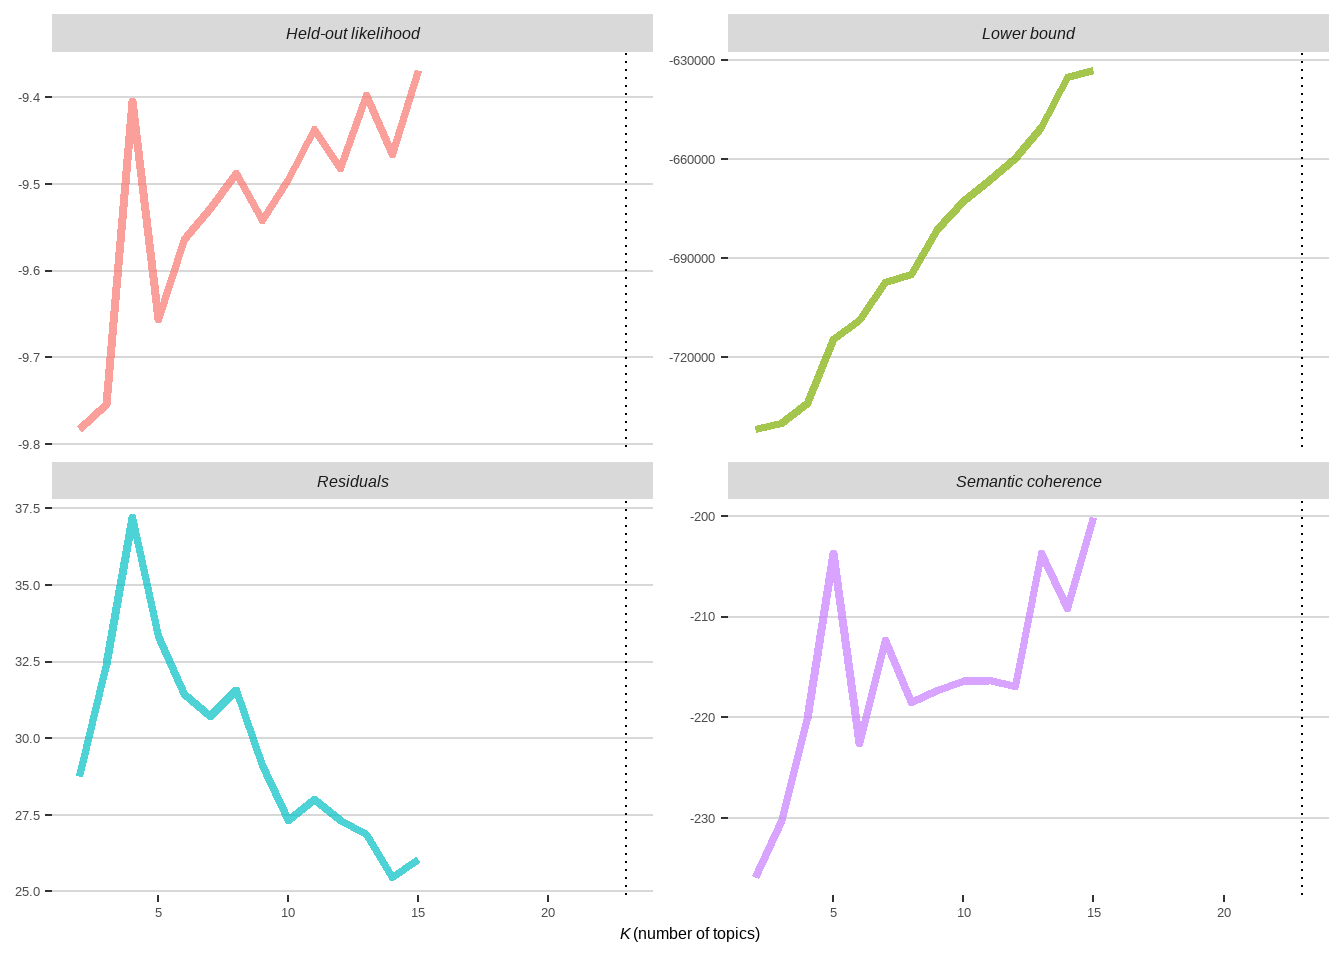
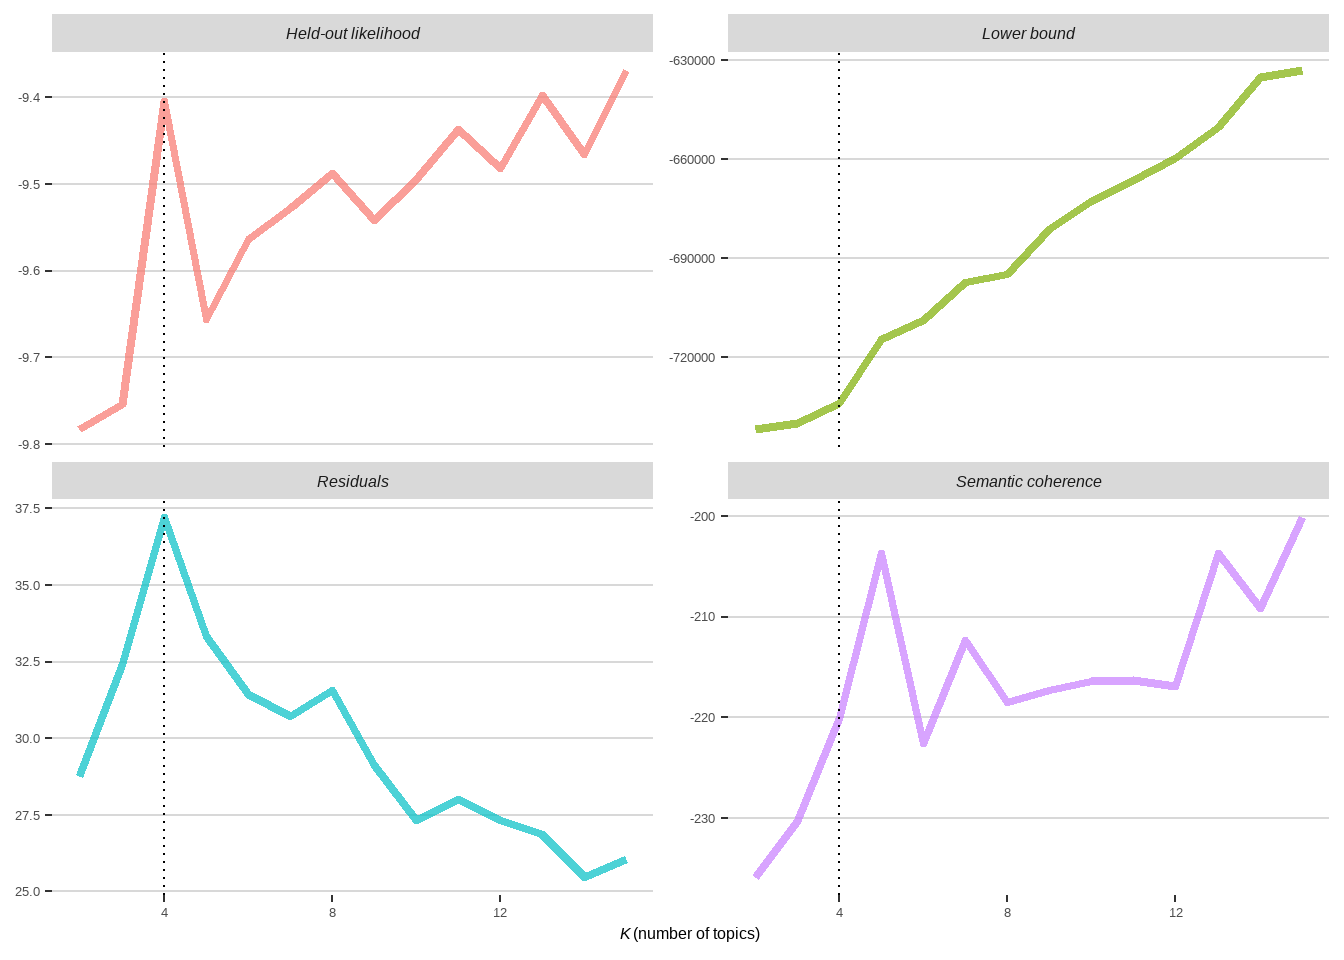
Mon, Feb 19, 2024 12:14:55 AM

diff --git a/docs/report.html b/docs/report.html
@@ -7,7 +7,7 @@
 <meta name="viewport" content="width=device-width, initial-scale=1.0, user-scalable=yes">
 
 <meta name="author" content="Xinzhuo HUANG">
-<meta name="dcterms.date" content="2024-02-18">
+<meta name="dcterms.date" content="2024-02-19">
 
 <title>Text Analysis with Chinese Court Decision Data</title>
 <style>
@@ -156,7 +156,7 @@ window.Quarto = {
       <div>
       <div class="quarto-title-meta-heading">Published</div>
       <div class="quarto-title-meta-contents">
-        <p class="date">February 18, 2024</p>
+        <p class="date">February 19, 2024</p>
       </div>
     </div>
     
@@ -245,7 +245,7 @@ body {text-align: justify}
 <div class="cell-output-display">
 <div data-pagedtable="false">
   <script data-pagedtable-source="" type="application/json">
-{"columns":[{"label":["full_text"],"name":[1],"type":["chr"],"align":["left"]}],"data":[{"1":"山东省沂源县人民法院\\n刑事判决书\\n（2016）鲁0323刑初30号\\n公诉机关沂源县人民检察院。\\n被告人高某，个体。因涉嫌犯寻衅滋事罪于2015年11月19日被刑事拘留，同年12月18日被逮捕。2016年1月13日被沂源县人民检察院取保候审。\\n辩护人姜志军，山东元德律师事务所律师。\\n被告人马某，个体。因涉嫌犯寻衅滋事罪于2015年11月19日被刑事拘留，同年12月18日被逮捕。2016年1月13日被沂源县人民检察院取保候审。\\n辩护人张立国，山东今政通律师事务所律师。\\n沂源县人民检察院以源检公刑诉（2016）38号起诉书指控被告人高某、马某犯寻衅滋事罪，于2016年1月15日向本院提起公诉。本院于当日立案，依法适用简易程序，组成合议庭，公开开庭审理了本案。沂源县人民检察院指派检察员耿永洁出庭支持公诉，被告人高某及其辩护人姜志军、被告人马某及其辩护人张立国到庭参加了诉讼。现已审理终结。\\n公诉机关指控，2015年9月26日凌晨2时许，被告人高某同马某、郭俊鹏（在逃）、任家辉（在逃）、赵延涛（在逃）四人驾驶被告人马某白色宝骏（鲁Ｖ×××××）面包车到沂源县鲁山路东苑小区沿街足生堂良家健身店内，无故用铁棍、棒球棍、石块等工具肆意毁坏店内玻璃门、发票打印机、电脑、茶几、饮水机、鱼缸、展示柜、室内摆件等物品。经沂源县价格认证中心鉴定，鉴定价值为26729.4元。\\n被告人高某对被指控的犯罪事实予以认可，其辩护人认为被告人高某认罪态度好，有悔罪表现，且已赔偿被害人的损失，并取得被害人的谅解，要求从轻处罚。\\n被告人马某对被指控的犯罪事实予以认可，其辩护人认为被告人高某认罪态度好，有悔罪表现，且已赔偿被害人的损失，并取得被害人的谅解，要求从轻处罚。\\n另查明，被告人高某组织、谋划实施犯罪，在共同犯罪中作用较大，被告人马某积极参与实施共同犯罪；二被告人均已赔偿被害人的损失，并取得被害人的谅解。\\n上述事实，被告人高某、马某在开庭过程中无异议，且有被告人高某、马某的供述与辩解，证人周某、吴某、杨某、范某、李某的证言，书证受案登记表、立案决定书、发破案经过、户籍证明、发破案经过、谅解书、受损物品发票单据、证明，现场勘验检查笔录及照片，辨认笔录及照片，鉴定意见涉案物品价格鉴定（认证）报告等证据予以证实，足以认定。\\n本院认为，被告人高某组织他人、被告人马某积极参与，任意损毁他人财物，情节严重，其行为均已构成寻衅滋事罪，均应追究其刑事责任。公诉机关指控的犯罪事实及罪名成立，本院予以支持。被告人高某、马某归案后均如实供述其犯罪行为，依法可以从轻处罚；被告人高某、马某强于案发后积极赔偿被害人的损失，并取得谅解，可以酌情从轻处罚；二被告人及其辩护人以此为由要求从轻处罚的辩护意见成立，本院予以采纳；被告人高某在共同犯罪中作用较大，可以酌情从重处罚。据此，依照《中华人民共和国刑法》第二百九十三条第一款第（三）项、第六十一条、第六十七条第三款、第四十五条、第七十二条第一款、第七十三条第二、三款的规定，判决如下：\\n一、被告人高某犯寻衅滋事罪，判处有期徒刑一年六个月，缓刑二年。\\n（缓刑考验期限，从判决确定之日起计算。）\\n二、被告人马某犯寻衅滋事罪，判处有期徒刑一年三个月，缓刑二年。\\n（缓刑考验期限，从判决确定之日起计算。）\\n如不服本判决，可在接到判决书的第二日起十日内，通过本院或者直接向山东省淄博市中级人民法院提出上诉。书面上诉的，应当提交上诉状正本一份，副本二份。\\n审判长李瑞文\\n代理审判员李滨\\n人民陪审员刘延霞\\n二〇一六年一月二十五日\\n书记员李沂涛"}],"options":{"columns":{"min":{},"max":[10]},"rows":{"min":[10],"max":[10]},"pages":{}}}
+{"columns":[{"label":["full_text"],"name":[1],"type":["chr"],"align":["left"]}],"data":[{"1":"吉林省松原市宁江区人民法院\\n刑事附带民事判决书\\n（2014）宁刑初字第237号\\n公诉机关松原市宁江区人民检察院。\\n附带民事诉讼原告孙ＸＸ，男。\\n被告人宁ＸＸ，男。曾因犯诈骗罪，于2009年10月27日被前郭县人民法院判处有期徒刑一年六个月，于2010年12月29日刑满释放。因涉嫌寻衅滋事，于2014年1月16日被松原市公安局宁江二分局刑事拘留；因涉嫌犯寻衅滋事罪，于2014年2月18日由松原市公安局宁江二分局执行逮捕。现羁押于松原市看守所。\\n松原市宁江区人民检察院以松宁检刑诉（2014）202号起诉书，指控被告人宁ＸＸ犯寻衅滋事罪。于2014年5月22日向本院提起公诉。附带民事诉讼原告孙ＸＸ同时向本院提起刑事附带民事诉讼。本院受理后，依法组成合议庭，于2014年6月3日依法公开开庭合并审理了本案。松原市宁江区人民检察院指派检察员高利泉出庭支持公诉，被告人宁ＸＸ、附带民事诉讼原告孙ＸＸ到庭参加诉讼。现已审理终结。\\n公诉机关指控，2014年1月8日晚，被告人宁ＸＸ因孙ＸＸ未同意其足疗店的按摩师陪被告人宁ＸＸ的朋友而对孙ＸＸ产生不满，2014年1月9日5时许，被告人宁ＸＸ伙同另一男子（具体姓名不详，在逃）一同来到孙ＸＸ居住的宁江区建设街繁荣小区33号楼下，待孙ＸＸ从楼内出来后，分别持铁棍和镐把对被害人孙ＸＸ进行殴打，致被害人孙ＸＸ左尺骨骨折。经法医鉴定：被害人孙ＸＸ伤情为轻伤二级。\\n公诉机关针对指控的上述事实，向本院移交并当庭出示和宣读了被告人的供述，被害人陈述，证人证言等相关书证，认为被告人宁ＸＸ的行为已构成寻衅滋事罪。鉴于被告人宁ＸＸ在刑满释放后五年内又重新犯罪，属累犯，应当依法从重处罚。应依照《中华人民共和国刑法》第二百九十三条第一项、第六十五条之规定，予以惩处。\\n附带民事诉讼原告孙ＸＸ诉讼请求，依法追究被告人宁ＸＸ的刑事责任；判决被告人宁ＸＸ赔偿医疗费3367元、鉴定费500元、误工费845元、护理费845元、伙食补助费350元。\\n附带民事诉讼原告对于上述请求，向本院提供了户籍证明、身份证复印件、医疗费收据等证据。\\n被告人宁ＸＸ当庭对公诉机关指控其寻衅滋事的主要犯罪事实供认不讳；对于附带民事诉讼原告提出的赔偿项目及数额无异议，但称其现无赔偿能力。\\n经审理查明，本院认定的事实与公诉机关指控事实一致。\\n上述事实，有经庭审质证、认证的下列证据予以证实：\\n一、被告人供述\\n被告人宁ＸＸ供述：2014年1月8日下午四点多我的朋友海哥、三哥、坤哥、光哥（四人具体姓名我不知道）、张ＸＸ、陈ＸＸ、安ＸＸ（他俩是孙ＸＸ足疗店的按摩师）在一起喝酒了，喝完酒我给孙ＸＸ打电话，想让陈ＸＸ、安ＸＸ赔我的哥们，晚上不回他的足疗店了，孙ＸＸ同意了。然后我和陈ＸＸ、安ＸＸ到孙ＸＸ店里取衣服，到店里后孙ＸＸ就不同意她俩走了，然后我向孙ＸＸ借钱，他没借给我，我就走了。我到网吧找到了庆子，我和他说我憋气，要教训孙ＸＸ，庆子说他和我去教训孙ＸＸ，我俩约定第二天早上5点在繁荣小区孙ＸＸ楼下集合。第二天早晨5点钟的时候，我带了一个黑色口罩，拿一个铁棒子去了孙ＸＸ家足疗店楼下，庆子带了一个黑色口罩拿了一把水果刀在那呢，这时看见楼下有一台车，不知道是谁的车，庆子拿刀把车胎扎了，之后孙ＸＸ下楼了，他进了正驾驶，我俩就冲上去了，把他打出来。我用铁棒子打他胳膊上一下子，庆子怎么打的记不清了，但肯定是打了。是否把车内的杂物箱打坏我没印象。\\n二、被害人陈述\\n被害人孙ＸＸ的陈述：今天早上6点我起来到楼下取车去参加葬礼，我看车胎没气了，我就上车要打电话，这时就上来两个年轻男子，其中一个挺高的男的把我车门子拽开了，说”下车”，当时我听着声音和看他的身材就知道他就是外号叫大齐子的男子，然后他就拽我下车，我就没下，大齐子看我不下车就拿手里的铁棍打我，我就用胳膊挡了，跟他一起的男子看大齐子动手了就拿手里的镐把打我。当时我在正驾驶坐着，我看事不好我就从副驾驶车门跳下车跑了，他俩就一直追我，追到芙蓉水乡洗浴宾馆时他俩就不追了，后期我就去医院了。\\n三、证人证言\\n1、证人陈Ｘ证言证实：我小名叫小雪。我是宁江区建设街繁荣小区33号楼孙ＸＸ家的按摩师。2014年1月9日早晨6点多钟。在建设街繁荣小区33号楼的楼下孙ＸＸ被人打了，我听小龙说的是外号叫大齐子和他找的人干的。\\n2、证人张ＸＸ证言证实：听宁ＸＸ说是宁ＸＸ把足疗店老板打了。\\n3、证人李Ｘ证言证实：孙ＸＸ和宁ＸＸ发生了矛盾，孙ＸＸ被打了。\\n4、证人慕ＸＸ、李ＸＸ证言证实：被告人宁ＸＸ是早晨6点前走的，戴口罩了。\\n四、书证\\n1、提取笔录、照片、随案移交物品清单：2014年1月16日晚上在建设街繁荣小区广场旅店内103房间内床下依法将涉嫌案件的作案工具铁棍提取。特征铁质，直径5厘米，长度60厘米。孙ＸＸ证实这是打我的那个铁棍。\\n2、病历证实：被害人孙ＸＸ诊断：左尺骨骨折、感染。\\n3、抓获经过证实：2014年1月15日，建设派出所民警根据线索举报，在圣和医院将被告人宁ＸＸ抓获。\\n4、户籍及现实表现证明、判决书、释放证明证实：被告人宁ＸＸ的基本身份情况。曾因犯诈骗罪，于2009年10月27日被前郭县人民法院判处有期徒刑一年六个月，并处罚金人民币5000元，于2010年12月29日刑满释放。\\n五、鉴定意见\\n松原市公安司法鉴定中心法医学人体损伤程度鉴定书证实：被害人孙ＸＸ的损伤程度构成轻伤二级。\\n综上证据，被告人宁ＸＸ对伙同他人持械随意殴打他人，致伤被害人的事实供认不讳。其供述作案的时间、地点、起因、所持凶器、侵害被害人的部位等事实情节，与被害人陈述及证人证言证实的情况一致；医院病案和诊断证明证实了被害人的伤势及治疗情况；法医学人体损伤程度鉴定书做出的被害人宁ＸＸ被致伤的部位及伤情为轻伤二级的鉴定结论，与被告人宁ＸＸ供述其伙同他人持械随意殴打被害人等事实情节相符合；公安机关《抓捕经过》证实了被告人宁ＸＸ系被公安机关抓获归案；公安机关户籍管理机关出具的《常住人口信息》等证明材料证实了被告人宁ＸＸ的出生时间，可以确定被告人宁ＸＸ作案时系成年人。判决书、释放证明证实被告人宁ＸＸ曾因犯诈骗罪，于2009年10月27日被前郭县人民法院判处有期徒刑一年六个月，并处罚金人民币5000元，于2010年12月29日刑满释放。据此，被告人宁ＸＸ寻衅滋事的犯罪事实清楚，证据确实、充分，本院予以确认。\\n本院认为，被告人宁ＸＸ违反社会管理秩序，伙同他人持械随意殴打他人，造成一人轻伤的后果，情节恶劣，其行为已构成寻衅滋事罪。公诉机关指控事实清楚、证据确实充分，指控罪名成立，本院予以支持。鉴于被告人宁ＸＸ在刑满释放后五年内又重新犯罪，属累犯，应当依法予以从重处罚。庭审中，被告人宁ＸＸ能够自愿认罪，属有悔罪表现，对被告人宁ＸＸ可酌情予以从轻处罚。由于被告人宁ＸＸ的犯罪行为给附带民事诉讼原告造成的经济损失，依法应当赔偿。附带民事诉讼原告提出赔偿医疗费、护理费、误工费、伙食补助费、鉴定检查费等经济损失共计人民币5907元，符合有关法律规定的赔偿范围和赔偿标准，本院予以保护。根据被告人宁ＸＸ的犯罪事实、性质、情节和对社会的危害程度，依照《中华人民共和国刑法》第二百九十三条第一项、第六十五条、第三十六条，《中华人民共和国民法通则》第一百一十九条，《最高人民法院关于审理人身损害赔偿案件适用法律若干问题的解释》第十七条、第十九条、第二十条、第二十一条、第二十三条之规定，判决如下：\\n一、被告人宁ＸＸ犯寻衅滋事罪，判处有期徒刑一年（刑期自判决执行之日开始计算，判决执行以前先行羁押的，羁押一日折抵刑期一日，刑期自2014年1月16日始至2015年1月15日止）。\\n二、被告人宁ＸＸ赔偿附带民事诉讼原告孙ＸＸ经济损失共计人民币5907元。于判决生效后十日内给付。\\n如不服本判决，可在接到判决书的第二天起十日内，通过本院或直接上诉于吉林省松原市中级人民法院，书面上诉的，应提交上诉状正本一份，副本八份。\\n审判长路平\\n审判员王彦军\\n人民陪审员徐淑清\\n二〇一四年六月三日\\n书记员王宇祺"}],"options":{"columns":{"min":{},"max":[10]},"rows":{"min":[10],"max":[10]},"pages":{}}}
   </script>
 </div>
 </div>
@@ -437,13 +437,15 @@ body {text-align: justify}
 <span id="cb8-30"><a href="#cb8-30"></a>        <span class="co"># title = "Model diagnostics by number of topics",</span></span>
 <span id="cb8-31"><a href="#cb8-31"></a>        <span class="co"># subtitle = "These diagnostics indicate that a good number of topics would be around 60"</span></span>
 <span id="cb8-32"><a href="#cb8-32"></a>    ) <span class="sc">+</span></span>
-<span id="cb8-33"><a href="#cb8-33"></a>    <span class="fu">geom_vline</span>(<span class="at">xintercept =</span> <span class="dv">23</span>, <span class="at">linetype =</span> <span class="st">"dotted"</span>) <span class="sc">+</span></span>
+<span id="cb8-33"><a href="#cb8-33"></a>    <span class="fu">geom_vline</span>(<span class="at">xintercept =</span> <span class="dv">4</span>, <span class="at">linetype =</span> <span class="st">"dotted"</span>) <span class="sc">+</span></span>
 <span id="cb8-34"><a href="#cb8-34"></a>    ggthemes<span class="sc">::</span><span class="fu">theme_hc</span>(<span class="at">base_family =</span> <span class="st">"Noto Serif SC"</span>) <span class="sc">+</span></span>
 <span id="cb8-35"><a href="#cb8-35"></a>    <span class="fu">theme</span>(</span>
 <span id="cb8-36"><a href="#cb8-36"></a>        <span class="at">axis.text.x =</span> <span class="fu">element_text</span>(<span class="at">family =</span> <span class="st">"EB Garamond"</span>),</span>
 <span id="cb8-37"><a href="#cb8-37"></a>        <span class="at">axis.title =</span> <span class="fu">element_text</span>(<span class="at">family =</span> <span class="st">"EB Garamond"</span>),</span>
 <span id="cb8-38"><a href="#cb8-38"></a>        <span class="at">strip.text =</span> <span class="fu">element_text</span>(<span class="at">face =</span> <span class="st">"italic"</span>, <span class="at">size =</span> <span class="dv">12</span>, <span class="at">family =</span> <span class="st">"EB Garamond"</span>)</span>
-<span id="cb8-39"><a href="#cb8-39"></a>    ) </span></code><button title="Copy to Clipboard" class="code-copy-button"><i class="bi"></i></button></pre></div>
+<span id="cb8-39"><a href="#cb8-39"></a>    )</span>
+<span id="cb8-40"><a href="#cb8-40"></a></span>
+<span id="cb8-41"><a href="#cb8-41"></a>findK_figure</span></code><button title="Copy to Clipboard" class="code-copy-button"><i class="bi"></i></button></pre></div>
 </details>
 </div>
 <p>It is evident that the model performs well when <span class="math inline">\(K\)</span> is approximately 4, indicating that the optimal number of topics detected by the topic modeling algorithm from our sample dataset of 1000 documents is 4.</p>
@@ -1357,25 +1359,27 @@ window.document.addEventListener("DOMContentLoaded", function (event) {
 <span id="cb9-308"><a href="#cb9-308"></a>        <span class="co"># title = "Model diagnostics by number of topics",</span></span>
 <span id="cb9-309"><a href="#cb9-309"></a>        <span class="co"># subtitle = "These diagnostics indicate that a good number of topics would be around 60"</span></span>
 <span id="cb9-310"><a href="#cb9-310"></a>    ) <span class="sc">+</span></span>
-<span id="cb9-311"><a href="#cb9-311"></a>    <span class="fu">geom_vline</span>(<span class="at">xintercept =</span> <span class="dv">23</span>, <span class="at">linetype =</span> <span class="st">"dotted"</span>) <span class="sc">+</span></span>
+<span id="cb9-311"><a href="#cb9-311"></a>    <span class="fu">geom_vline</span>(<span class="at">xintercept =</span> <span class="dv">4</span>, <span class="at">linetype =</span> <span class="st">"dotted"</span>) <span class="sc">+</span></span>
 <span id="cb9-312"><a href="#cb9-312"></a>    ggthemes<span class="sc">::</span><span class="fu">theme_hc</span>(<span class="at">base_family =</span> <span class="st">"Noto Serif SC"</span>) <span class="sc">+</span></span>
 <span id="cb9-313"><a href="#cb9-313"></a>    <span class="fu">theme</span>(</span>
 <span id="cb9-314"><a href="#cb9-314"></a>        <span class="at">axis.text.x =</span> <span class="fu">element_text</span>(<span class="at">family =</span> <span class="st">"EB Garamond"</span>),</span>
 <span id="cb9-315"><a href="#cb9-315"></a>        <span class="at">axis.title =</span> <span class="fu">element_text</span>(<span class="at">family =</span> <span class="st">"EB Garamond"</span>),</span>
 <span id="cb9-316"><a href="#cb9-316"></a>        <span class="at">strip.text =</span> <span class="fu">element_text</span>(<span class="at">face =</span> <span class="st">"italic"</span>, <span class="at">size =</span> <span class="dv">12</span>, <span class="at">family =</span> <span class="st">"EB Garamond"</span>)</span>
-<span id="cb9-317"><a href="#cb9-317"></a>    ) </span>
-<span id="cb9-318"><a href="#cb9-318"></a><span class="in">```</span></span>
-<span id="cb9-319"><a href="#cb9-319"></a></span>
-<span id="cb9-322"><a href="#cb9-322"></a><span class="in">```{r}</span></span>
-<span id="cb9-323"><a href="#cb9-323"></a><span class="co">#| echo: false</span></span>
-<span id="cb9-324"><a href="#cb9-324"></a><span class="co">#| eval: false</span></span>
-<span id="cb9-325"><a href="#cb9-325"></a><span class="fu">write_rds</span>(findK_figure, <span class="st">"data/processed/findK_figure.Rds"</span>)</span>
-<span id="cb9-326"><a href="#cb9-326"></a><span class="in">```</span></span>
-<span id="cb9-327"><a href="#cb9-327"></a>It is evident that the model performs well when $K$ is approximately 4, indicating that the optimal number of topics detected by the topic modeling algorithm from our sample dataset of 1000 documents is 4.</span>
-<span id="cb9-330"><a href="#cb9-330"></a><span class="in">```{r}</span></span>
-<span id="cb9-331"><a href="#cb9-331"></a><span class="co">#| echo: false</span></span>
-<span id="cb9-332"><a href="#cb9-332"></a><span class="fu">read_rds</span>(<span class="st">"E:/OneDrive - HKUST Connect/Research/TextAnalysis/data/processed/findK_figure.Rds"</span>)</span>
-<span id="cb9-333"><a href="#cb9-333"></a><span class="in">```</span></span>
+<span id="cb9-317"><a href="#cb9-317"></a>    )</span>
+<span id="cb9-318"><a href="#cb9-318"></a></span>
+<span id="cb9-319"><a href="#cb9-319"></a>findK_figure</span>
+<span id="cb9-320"><a href="#cb9-320"></a><span class="in">```</span></span>
+<span id="cb9-321"><a href="#cb9-321"></a></span>
+<span id="cb9-324"><a href="#cb9-324"></a><span class="in">```{r}</span></span>
+<span id="cb9-325"><a href="#cb9-325"></a><span class="co">#| echo: false</span></span>
+<span id="cb9-326"><a href="#cb9-326"></a><span class="co">#| eval: false</span></span>
+<span id="cb9-327"><a href="#cb9-327"></a><span class="fu">write_rds</span>(findK_figure, <span class="st">"data/processed/findK_figure.Rds"</span>)</span>
+<span id="cb9-328"><a href="#cb9-328"></a><span class="in">```</span></span>
+<span id="cb9-329"><a href="#cb9-329"></a>It is evident that the model performs well when $K$ is approximately 4, indicating that the optimal number of topics detected by the topic modeling algorithm from our sample dataset of 1000 documents is 4.</span>
+<span id="cb9-332"><a href="#cb9-332"></a><span class="in">```{r}</span></span>
+<span id="cb9-333"><a href="#cb9-333"></a><span class="co">#| echo: false</span></span>
+<span id="cb9-334"><a href="#cb9-334"></a><span class="fu">read_rds</span>(<span class="st">"E:/OneDrive - HKUST Connect/Research/TextAnalysis/data/processed/findK_figure.Rds"</span>)</span>
+<span id="cb9-335"><a href="#cb9-335"></a><span class="in">```</span></span>
 </code><button title="Copy to Clipboard" class="code-copy-button"><i class="bi"></i></button></pre></div>
 </div></div></div></div></div>
 </div> <!-- /content -->
